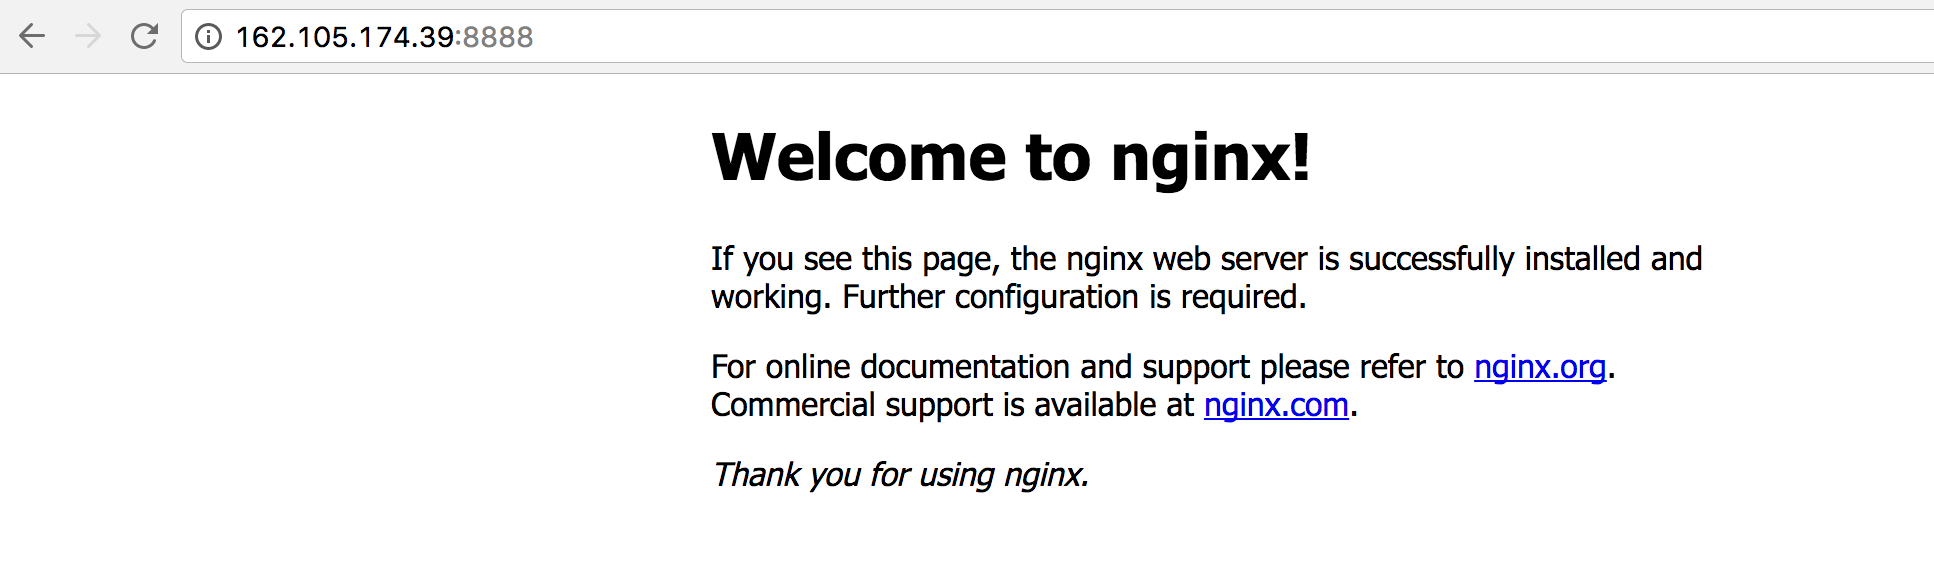
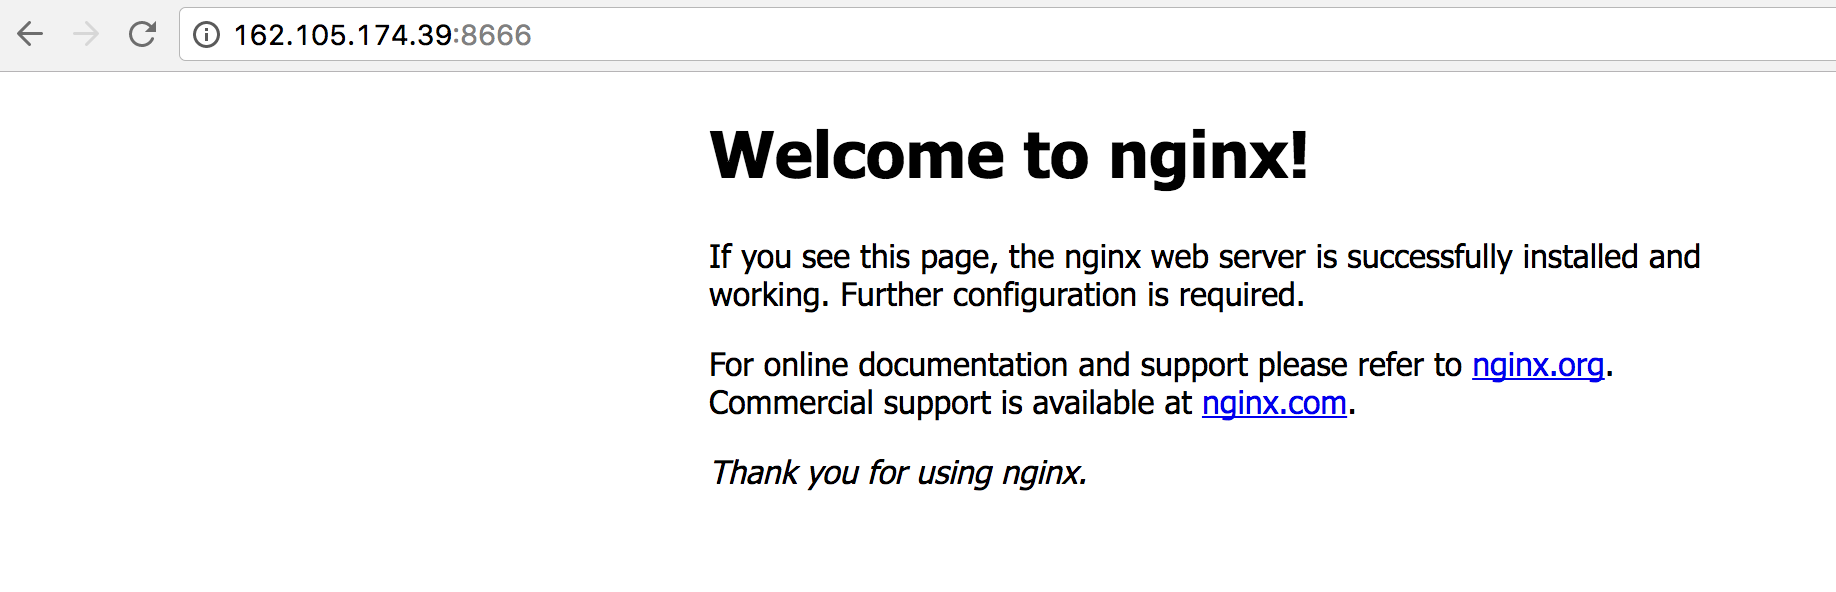
change port 8888 to 8666

diff --git a/Homework 3/README.md b/Homework 3/README.md
@@ -512,7 +512,7 @@ dcemal5p2w9y3eo9sh5ctmm8t *  oo-lab    Ready   Active        Leader
  * swarm集群不能创建非集群的普通容器，需要创建`docker service`，使用如下命令创建一个名为my-web的nginx网络服务，并且创建3个tasks，将Leader容器中的80端口映射到宿主机8888端口上。<br />
  `docker service create --replicas 3 --network my-multi-host-network --name my-web -p 8888:80 nginx`
  * 此时另外两个主机上也会出现`my-multi-host-network`的overlay网络和`nginx`镜像。
- * 再将Leader宿主机的8888端口映射到外网的8888端口，即可看到nginx主页。
+ * 再将Leader宿主机的8888端口映射到外网的8666端口，即可看到nginx主页。
 ![](https://github.com/wzc1995/OperatingSystemLab/blob/master/Homework%203/picture/nginxSwarm.png)
  * overlay配合swarm是典型的master-slave架构，该网络模式主要用于docker服务和集群的创建。而其他的网络模式都是local模式，只能在本地网络中访问，任何和外部操作都需要经过主机做端口映射。overlay网络通过一个新的网段来管理一个集群，通过注册的方式来发现新结点，避免了普通模式下通讯的繁琐。
 
